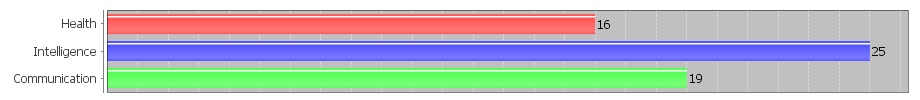
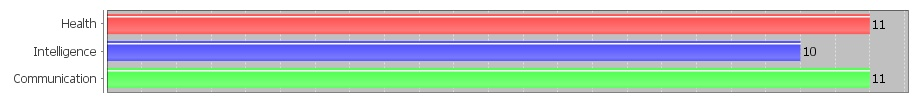
Dopolnenija v TimeService, SessionService Popravlena fukcija filtrov

Changed region(s): [[0.6391, 0.12, 0.9739, 0.36], [0.7304, 0.66, 0.9739, 0.9], [0.8522, 0.39, 0.9739, 0.63]]

diff --git a/src/main/java/lv/javaguru/java2/services/TimeService.java b/src/main/java/lv/javaguru/java2/services/TimeService.java
@@ -37,6 +37,19 @@ public class TimeService {
         return sqlTimestamp;
     }
 
+    public java.sql.Timestamp setStartOfDateTimestamp(String date) throws ParseException {
+        SimpleDateFormat dateFormat = new SimpleDateFormat("yyyy-MM-dd");
+        Date startDate = dateFormat.parse(date);
+        Calendar calendar = Calendar.getInstance();
+        calendar.setTime(startDate);
+        calendar.set(Calendar.HOUR_OF_DAY, 0);
+        calendar.set(Calendar.MINUTE, 0);
+        calendar.set(Calendar.SECOND, 0);
+        calendar.set(Calendar.MILLISECOND, 0);
+        java.sql.Timestamp sqlTimestamp = new java.sql.Timestamp(calendar.getTime().getTime());
+        return sqlTimestamp;
+    }
+
     public java.sql.Timestamp getEndOfDateTimestamp(){
         java.util.Date utilDate = new java.util.Date();
         Calendar calendar = Calendar.getInstance();
@@ -49,17 +62,34 @@ public class TimeService {
         return sqlTimestamp;
     }
 
-    public Date subtractDays(Date date, int day){
+    public java.sql.Timestamp setEndOfDateTimestamp(String date) throws ParseException {
+        SimpleDateFormat dateFormat = new SimpleDateFormat("yyyy-MM-dd");
+        Date stopDate = dateFormat.parse(date);
         Calendar calendar = Calendar.getInstance();
-        calendar.setTime(date);
+        calendar.setTime(stopDate);
+        calendar.set(Calendar.HOUR_OF_DAY, 23);
+        calendar.set(Calendar.MINUTE, 59);
+        calendar.set(Calendar.SECOND, 59);
+        calendar.set(Calendar.MILLISECOND, 999);
+        java.sql.Timestamp sqlTimestamp = new java.sql.Timestamp(calendar.getTime().getTime());
+        return sqlTimestamp;
+    }
+
+    public java.sql.Timestamp subtractDays(java.sql.Timestamp timestamp, int day){
+        Calendar calendar = Calendar.getInstance();
+        calendar.setTime(timestamp);
         calendar.add(Calendar.DAY_OF_YEAR, -day);
-        return calendar.getTime();
+        calendar.set(Calendar.HOUR_OF_DAY, 0);
+        calendar.set(Calendar.MINUTE, 0);
+        calendar.set(Calendar.SECOND, 0);
+        calendar.set(Calendar.MILLISECOND, 0);
+        java.sql.Timestamp sqlTimestamp = new java.sql.Timestamp(calendar.getTime().getTime());
+        return sqlTimestamp;
     }
 
     public String getFormattedDate(Date date) throws ParseException {
         DateFormat df = new SimpleDateFormat("yyyy-MM-dd");
         String formattedDate = df.format(date);
-
         return formattedDate;
     }
 }

diff --git a/src/main/java/lv/javaguru/java2/servlet/controllers/HistoryRecordFilterControllerImpl.java b/src/main/java/lv/javaguru/java2/servlet/controllers/HistoryRecordFilterControllerImpl.java
@@ -4,6 +4,7 @@ import lv.javaguru.java2.database.DBException;
 import lv.javaguru.java2.database.HistoryRecordDAO;
 import lv.javaguru.java2.domain.HistoryRecord;
 import lv.javaguru.java2.domain.User;
+import lv.javaguru.java2.services.TimeService;
 import org.springframework.beans.factory.annotation.Autowired;
 import org.springframework.beans.factory.annotation.Qualifier;
 import org.springframework.stereotype.Controller;
@@ -25,24 +26,27 @@ import java.util.List;
  */
 @Controller
 public class HistoryRecordFilterControllerImpl {
-
     @Autowired
     @Qualifier("HistoryDAO_ORM")
     private HistoryRecordDAO historyRecordDAO;
+    @Autowired
+    TimeService timeService;
 
     @RequestMapping(value = "/historyRecordFilter", method = {RequestMethod.POST})
     public ModelAndView execute(HttpServletRequest request) throws DBException, IOException, ParseException {
 
         String startDateStr = request.getParameter("startDate");
         String stopDateStr = request.getParameter("stopDate");
-        SimpleDateFormat dateFormat = new SimpleDateFormat("yyyy-MM-dd");
-        Date startDate = dateFormat.parse(startDateStr);
-        Date stopDate = dateFormat.parse(stopDateStr);
+
+        java.sql.Timestamp startDate = timeService.setStartOfDateTimestamp(startDateStr);
+        java.sql.Timestamp stopDate = timeService.setEndOfDateTimestamp(stopDateStr);
 
         HttpSession session = request.getSession();
         final User user = (User) session.getAttribute("user");
         List<HistoryRecord> historyRecordListInRange = historyRecordDAO.getHistoryRecordsInRange(user, startDate, stopDate);
         session.setAttribute("historyRecordListInRange", historyRecordListInRange);
+        session.setAttribute("startDate", startDate);
+        session.setAttribute("stopDate", stopDate);
 
         return  new ModelAndView("/taskHistory.jsp", "model", "History Record Filter");
     }

diff --git a/src/main/java/lv/javaguru/java2/servlet/controllers/TaskHistoryRecordControllerImpl.java b/src/main/java/lv/javaguru/java2/servlet/controllers/TaskHistoryRecordControllerImpl.java
@@ -3,6 +3,7 @@ package lv.javaguru.java2.servlet.controllers;
 import lv.javaguru.java2.database.DBException;
 import lv.javaguru.java2.database.HistoryRecordDAO;
 import lv.javaguru.java2.domain.HistoryRecord;
+import lv.javaguru.java2.domain.User;
 import lv.javaguru.java2.domain.builders.HistoryRecordBuilder;
 import lv.javaguru.java2.services.SessionService;
 import lv.javaguru.java2.services.TimeService;
@@ -15,16 +16,30 @@ import org.springframework.web.bind.annotation.RequestMethod;
 import org.springframework.web.servlet.ModelAndView;
 
 import javax.servlet.http.HttpServletRequest;
+import javax.servlet.http.HttpSession;
 import java.io.IOException;
+import java.sql.Timestamp;
+import java.util.List;
 
 /**
  * Created by AST on 2015.11.03..
  */
 @Controller
 public class TaskHistoryRecordControllerImpl {
+    @Autowired
+    @Qualifier("HistoryDAO_ORM")
+    private HistoryRecordDAO historyRecordDAO;
 
     @RequestMapping(value = "/taskHistory", method = {RequestMethod.GET})
     public ModelAndView execute(HttpServletRequest request) throws DBException, IOException {
+
+        HttpSession session = request.getSession();
+        final User user = (User) session.getAttribute("user");
+        java.sql.Timestamp startDate = (Timestamp) session.getAttribute("startDate");
+        java.sql.Timestamp stopDate = (Timestamp) session.getAttribute("stopDate");
+
+        List<HistoryRecord> historyRecordListInRange = historyRecordDAO.getHistoryRecordsInRange(user, startDate, stopDate);
+        session.setAttribute("historyRecordListInRange", historyRecordListInRange);
 
         return  new ModelAndView("/taskHistory.jsp", "model", "History Record List");
 

diff --git a/src/main/java/lv/javaguru/java2/services/SessionService.java b/src/main/java/lv/javaguru/java2/services/SessionService.java
@@ -45,7 +45,6 @@ public class SessionService {
         User userFromSession = (User) session.getAttribute("user");
         Long userId = userFromSession.getId();
 
-
         User user = userDAO.getUserById(userId);
         session.setAttribute("user", user);
 
@@ -57,12 +56,6 @@ public class SessionService {
 
         List<Task> accomplishedTaskList = taskDAO.getAccomplishedTaskList(user);
         session.setAttribute("accomplishedTaskList", accomplishedTaskList);
-
-        List<HistoryRecord> historyRecordList = historyRecordDAO.getAllHistoryRecords(user);
-        session.setAttribute("historyRecordList", historyRecordList);
-
-        List<HistoryRecord> historyRecordListInRange = historyRecordDAO.getAllHistoryRecords(user);
-        session.setAttribute("historyRecordList", historyRecordList);
 
     }
 
@@ -87,7 +80,7 @@ public class SessionService {
             userDAO.updateUserData(user);
         }
 
-        Date startDate = timeService.subtractDays(stopDate, INITIAL_OFFSET_IN_DAYS);
+        java.sql.Timestamp startDate = timeService.subtractDays(stopDate, INITIAL_OFFSET_IN_DAYS);
         session.setAttribute("formattedDateToday", formattedStopDate);
         session.setAttribute("startDate", startDate);
         session.setAttribute("stopDate", stopDate);
@@ -106,6 +99,7 @@ public class SessionService {
         session.setAttribute("historyRecordList", historyRecordList);
 
         List<HistoryRecord> historyRecordsInRange = historyRecordDAO.getHistoryRecordsInRange(user, startDate, stopDate);
+        session.setAttribute("historyRecordsInRange", historyRecordsInRange);
 
         chartService.createBarChart(user);
 

diff --git a/src/main/java/lv/javaguru/java2/servlet/controllers/TaskStatisticCharFilterControllerImpl.java b/src/main/java/lv/javaguru/java2/servlet/controllers/TaskStatisticCharFilterControllerImpl.java
@@ -5,6 +5,7 @@ import lv.javaguru.java2.database.HistoryRecordDAO;
 import lv.javaguru.java2.domain.HistoryRecord;
 import lv.javaguru.java2.domain.User;
 import lv.javaguru.java2.services.ChartService;
+import lv.javaguru.java2.services.TimeService;
 import org.springframework.beans.factory.annotation.Autowired;
 import org.springframework.beans.factory.annotation.Qualifier;
 import org.springframework.stereotype.Controller;
@@ -31,15 +32,17 @@ public class TaskStatisticCharFilterControllerImpl {
     private HistoryRecordDAO historyRecordDAO;
     @Autowired
     private ChartService chartService;
+    @Autowired
+    TimeService timeService;
 
     @RequestMapping(value = "/statisticCharFilter", method = {RequestMethod.POST})
     public ModelAndView execute(HttpServletRequest request) throws DBException, IOException, ParseException {
 
         String startDateStr = request.getParameter("startDate");
         String stopDateStr = request.getParameter("stopDate");
-        SimpleDateFormat dateFormat = new SimpleDateFormat("yyyy-MM-dd");
-        Date startDate = dateFormat.parse(startDateStr);
-        Date stopDate = dateFormat.parse(stopDateStr);
+
+        java.sql.Timestamp startDate = timeService.setStartOfDateTimestamp(startDateStr);
+        java.sql.Timestamp stopDate = timeService.setStartOfDateTimestamp(stopDateStr);
 
         HttpSession session = request.getSession();
         final User user = (User) session.getAttribute("user");

diff --git a/src/main/java/lv/javaguru/java2/servlet/controllers/AccomplishTaskControllerImpl.java b/src/main/java/lv/javaguru/java2/servlet/controllers/AccomplishTaskControllerImpl.java
@@ -24,6 +24,7 @@ import javax.servlet.http.HttpSession;
 import java.io.IOException;
 import java.sql.Timestamp;
 import java.util.List;
+import java.util.concurrent.TimeUnit;
 
 /**
  * Created by AST on 2015.11.03..
@@ -49,7 +50,7 @@ public class AccomplishTaskControllerImpl{
     ChartService chartService;
 
     @RequestMapping(value = "/accomplishTask", method = {RequestMethod.POST})
-    public ModelAndView execute(HttpServletRequest request) throws DBException, IOException {
+    public ModelAndView execute(HttpServletRequest request) throws DBException, IOException, InterruptedException {
 
         String buttonName = buttonFunctionService.getButtonName(request);
 
@@ -69,9 +70,12 @@ public class AccomplishTaskControllerImpl{
             HistoryRecord historyRecord = taskService.buildHistoryRecord(user, task);
             historyRecordDAO.createHistoryRecord(historyRecord);
 
+            sessionService.updateSessionVariables(request);
+
+            user = (User) session.getAttribute("user");
             chartService.createBarChart(user);
 
-            sessionService.updateSessionVariables(request);
+            //TimeUnit.SECONDS.sleep(1);
 
             return new ModelAndView("/activeTasks.jsp", "model", "Task Accomplished");
         }

diff --git a/src/main/java/lv/javaguru/java2/servlet/controllers/UndoAccomplishedTaskControllerImpl.java b/src/main/java/lv/javaguru/java2/servlet/controllers/UndoAccomplishedTaskControllerImpl.java
@@ -19,6 +19,7 @@ import javax.servlet.http.HttpServletRequest;
 import javax.servlet.http.HttpSession;
 import java.io.IOException;
 import java.util.List;
+import java.util.concurrent.TimeUnit;
 
 /**
  * Created by AST on 2015.11.03..
@@ -46,7 +47,7 @@ public class UndoAccomplishedTaskControllerImpl {
     ChartService chartService;
 
     @RequestMapping(value = "/undoTask", method = {RequestMethod.POST})
-    public ModelAndView execute(HttpServletRequest request) throws DBException, IOException {
+    public ModelAndView execute(HttpServletRequest request) throws DBException, IOException, InterruptedException {
 
         String buttonName = buttonFunctionService.getButtonName(request);
 
@@ -70,9 +71,12 @@ public class UndoAccomplishedTaskControllerImpl {
             task = taskService.setTaskNotAccomplished(task);
             taskDAO.updateTask(task);
 
+            sessionService.updateSessionVariables(request);
+
+            user = (User) session.getAttribute("user");
             chartService.createBarChart(user);
 
-            sessionService.updateSessionVariables(request);
+            //TimeUnit.SECONDS.sleep(1);
 
             return new ModelAndView("/activeTasks.jsp", "model", "Task Accomplished");
         }

diff --git a/target/tomcat/work/Tomcat/localhost/java2/org/apache/jsp/activeTasks_jsp.java b/target/tomcat/work/Tomcat/localhost/java2/org/apache/jsp/activeTasks_jsp.java
@@ -1,7 +1,7 @@
 /*
  * Generated by the Jasper component of Apache Tomcat
  * Version: Apache Tomcat/7.0.37
- * Generated at: 2016-01-25 09:41:52 UTC
+ * Generated at: 2016-01-25 13:26:46 UTC
  * Note: The last modified time of this file was set to
  *       the last modified time of the source file after
  *       generation to assist with modification tracking.

diff --git a/target/tomcat/work/Tomcat/localhost/java2/org/apache/jsp/index_jsp.java b/target/tomcat/work/Tomcat/localhost/java2/org/apache/jsp/index_jsp.java
@@ -1,7 +1,7 @@
 /*
  * Generated by the Jasper component of Apache Tomcat
  * Version: Apache Tomcat/7.0.37
- * Generated at: 2016-01-25 09:11:24 UTC
+ * Generated at: 2016-01-25 13:26:36 UTC
  * Note: The last modified time of this file was set to
  *       the last modified time of the source file after
  *       generation to assist with modification tracking.
